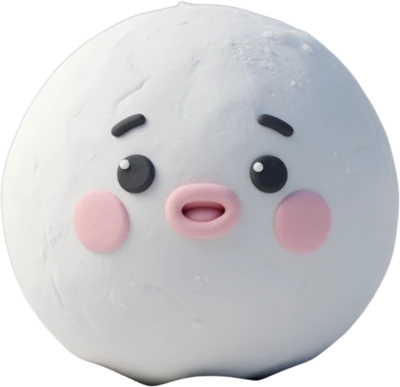
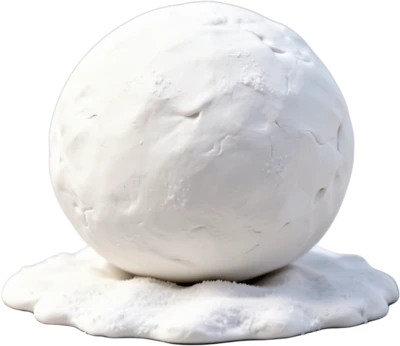
Bystrzakowo: bałwan w historyjce z kul śniegu bez twarzy; generator kolejnych historyjek

diff --git a/games/bystrzakowo/scripts/gen-art.ts b/games/bystrzakowo/scripts/gen-art.ts
@@ -144,6 +144,88 @@ if (process.argv.includes('--historyjki')) {
   for (const [id, frames] of stories) frames.forEach((what, i) => tasks.push({ out: 'historyjki', prefix: `${id}-${i + 1}`, args: ['--workflow', 'flux2-sprite', '--prompt', frame(what)] }));
 }
 
+if (process.argv.includes('--balwan')) {
+  // Bałwan krok po kroku: same kule śniegu bez twarzy (wcześniej Flux dorysowywał buzie i wyglądały jak głowy).
+  const frame = (what: string) => `${what}, plain snow, no face, no eyes, no mouth, no nose, no carrot, no decorations, single scene object, centered, soft 3D clay toy render, rounded chubby shapes, matte plasticine texture, soft studio lighting, no text, plain light gray background`;
+  tasks.push(
+    { out: 'historyjki', prefix: 'balwan-1', args: ['--workflow', 'flux2-sprite', '--count', '2', '--prompt', frame('one big round plain white snowball lying on a small patch of snowy ground')] },
+    { out: 'historyjki', prefix: 'balwan-2', args: ['--workflow', 'flux2-sprite', '--count', '2', '--prompt', frame('two plain white snowballs stacked on top of each other, a big one at the bottom and a smaller one on top, on a small patch of snowy ground, an unfinished snowman body')] },
+  );
+}
+
+if (process.argv.includes('--historyjki2')) {
+  // Nowe historyjki i poprawione kadry. Przedmioty bez buzi (Flux z „cute” dorysowywał twarze jajkom i jabłkom).
+  const base = 'single scene object, centered, soft 3D clay toy render, rounded chubby shapes, matte plasticine texture, soft studio lighting, bright cheerful pastel colors, no text, plain light gray background';
+  const thing = (what: string) => `${what}, no face, no eyes, no mouth, ${base}`;
+  const animal = (what: string) => `${what}, cute and friendly, ${base}`;
+  const frames: [string, string][] = [
+    // Poprawki (bez twarzy).
+    ['kwiat-1', thing('a small brown seed in a little pile of brown soil')],
+    ['kwiat-2', thing('a tiny green sprout with two leaves growing from a little pile of brown soil')],
+    ['kwiat-3', thing('a pink flower in bloom growing from a little pile of brown soil')],
+    ['kurczak-1', thing('a plain white egg in a little straw nest')],
+    ['jablko-1', thing('a whole shiny red apple with a leaf')],
+    ['jablko-2', thing('a red apple with one big bite taken out, with a leaf')],
+    ['jablko-3', thing('an apple core with a stem')],
+    ['lody-1', thing('a full ice cream cone with two scoops, pink and vanilla')],
+    ['lody-2', thing('an ice cream cone with one small half melted pink scoop')],
+    // Nowe historyjki.
+    ['zabka-1', thing('a small clump of round transparent frog eggs with black dots floating in a bit of blue pond water')],
+    ['zabka-2', animal('a small dark green tadpole with a long tail swimming in a bit of blue pond water')],
+    ['zabka-3', animal('a green frog sitting on a lily pad on a bit of blue pond water')],
+    ['kanapka-1', thing('a single plain slice of bread on a small wooden board')],
+    ['kanapka-2', thing('a single slice of bread spread with yellow butter on a small wooden board, a butter knife next to it')],
+    ['kanapka-3', thing('an open sandwich, a slice of bread with butter, cheese, tomato slices and lettuce on a small wooden board')],
+    ['wieza-1', thing('one single red wooden toy block standing on the floor')],
+    ['wieza-2', thing('two wooden toy blocks stacked on top of each other, red at the bottom and yellow on top')],
+    ['wieza-3', thing('a tall tower of five stacked colorful wooden toy blocks, red, yellow, green, blue and orange')],
+    ['balon-1', thing('a flat deflated red rubber balloon lying on the floor')],
+    ['balon-2', thing('a small half inflated red balloon with a string')],
+    ['balon-3', thing('a big round fully inflated shiny red balloon with a string')],
+    ['tort-1', thing('a mixing bowl with cake batter, a whisk, two eggs and a bag of flour next to it')],
+    ['tort-2', thing('a plain round baked sponge cake in a round baking tin')],
+    ['tort-3', thing('a round birthday cake with pink frosting, sprinkles and three lit candles on a plate')],
+    ['zamek-1', thing('a red toy bucket full of sand standing on beach sand with a small spade')],
+    ['zamek-2', thing('a small round pile of sand shaped like an upturned bucket on beach sand')],
+    ['zamek-3', thing('a sand castle with three towers and a little red flag on beach sand')],
+  ];
+  for (const [id, prompt] of frames) tasks.push({ out: 'historyjki', prefix: id, args: ['--workflow', 'flux2-sprite', '--count', '2', '--prompt', prompt] });
+}
+
+if (process.argv.includes('--historyjki3')) {
+  // Kolejne historyjki (razem 20).
+  const base = 'single scene object, centered, soft 3D clay toy render, rounded chubby shapes, matte plasticine texture, soft studio lighting, bright cheerful pastel colors, no text, plain light gray background';
+  const thing = (what: string) => `${what}, no face, no eyes, no mouth, ${base}`;
+  const animal = (what: string) => `${what}, cute and friendly, ${base}`;
+  const frames: [string, string][] = [
+    ['jajko-1', thing('a whole white egg next to a small frying pan')],
+    ['jajko-2', thing('a cracked egg with raw yolk and egg white pouring into a small frying pan')],
+    ['jajko-3', thing('a fried egg with a round yellow yolk in a small frying pan')],
+    ['pizza-1', thing('a round ball of pizza dough on a floured wooden board')],
+    ['pizza-2', thing('a flat round raw pizza dough spread with red tomato sauce on a wooden board')],
+    ['pizza-3', thing('a baked round pizza with melted cheese, tomato and basil on a wooden board')],
+    ['swieca-1', thing('a tall new white candle with a small flame in a candle holder')],
+    ['swieca-2', thing('a half burned white candle with a small flame and wax drips in a candle holder')],
+    ['swieca-3', thing('a tiny short burned down candle stub with a small flame and a puddle of wax in a candle holder')],
+    ['kakao-1', thing('an empty blue mug')],
+    ['kakao-2', thing('a blue mug full of white milk')],
+    ['kakao-3', thing('a blue mug full of hot brown cocoa with pink and white marshmallows on top')],
+    ['gniazdo-1', thing('a small pile of twigs and straw on a tree branch')],
+    ['gniazdo-2', thing('an empty round bird nest made of twigs on a tree branch')],
+    ['gniazdo-3', animal('a small blue bird sitting in a round nest made of twigs on a tree branch')],
+    ['drzewko-1', thing('a tiny tree sapling with a few leaves growing from a small mound of soil')],
+    ['drzewko-2', thing('a small young tree with a thin trunk and a small round crown on a small mound of grass')],
+    ['drzewko-3', thing('a big apple tree with a round green crown full of red apples on a small mound of grass')],
+    ['samolot-1', thing('a plain flat sheet of white paper lying on a table')],
+    ['samolot-2', thing('a sheet of white paper folded in half with a pointed folded tip, half made paper airplane')],
+    ['samolot-3', thing('a finished white paper airplane')],
+    ['dzien-1', thing('a small round green hill with the sun rising behind it, orange and pink morning sky in a round frame')],
+    ['dzien-2', thing('a small round green hill with a bright yellow sun high in a blue sky in a round frame')],
+    ['dzien-3', thing('a small round dark green hill under a dark blue night sky with a crescent moon and stars in a round frame')],
+  ];
+  for (const [id, prompt] of frames) tasks.push({ out: 'historyjki', prefix: id, args: ['--workflow', 'flux2-sprite', '--count', '2', '--prompt', prompt] });
+}
+
 if (process.argv.includes('--krajobrazy')) {
   // Tła naklejanki: szeroki krajobraz z dużą pustą przestrzenią na naklejki (dolne dwie trzecie).
   const land = (what: string) => `wide landscape scene of ${what}, the bottom two thirds is a big open empty flat area for placing stickers, low horizon detail, no characters, no animals, no people, soft 3D clay toy render, rounded chubby shapes, matte plasticine texture, soft lighting, bright cheerful pastel colors, cute and friendly`;
@@ -207,7 +289,7 @@ if (process.argv.includes('--warsztat')) {
 }
 
 for (const item of ITEMS) {
-  if ((process.argv.includes('--warsztat') || process.argv.includes('--sciezka') || process.argv.includes('--znaki') || process.argv.includes('--pracownia') || process.argv.includes('--dodatki') || process.argv.includes('--historyjki') || process.argv.includes('--polana') || process.argv.includes('--kolorowanki2') || process.argv.includes('--krajobrazy')) && !only) break;
+  if ((process.argv.includes('--warsztat') || process.argv.includes('--sciezka') || process.argv.includes('--znaki') || process.argv.includes('--pracownia') || process.argv.includes('--dodatki') || process.argv.includes('--historyjki') || process.argv.includes('--polana') || process.argv.includes('--kolorowanki2') || process.argv.includes('--krajobrazy') || process.argv.includes('--balwan') || process.argv.includes('--historyjki2') || process.argv.includes('--historyjki3')) && !only) break;
   if (only && !only.has(item.id)) continue;
   if (!only && existsSync(join(repo, 'games/bystrzakowo/public/art/items', `${item.id}.webp`))) continue;
   if (existsSync(join(raw, 'items', `${item.id}-${SEED}.png`))) continue;
